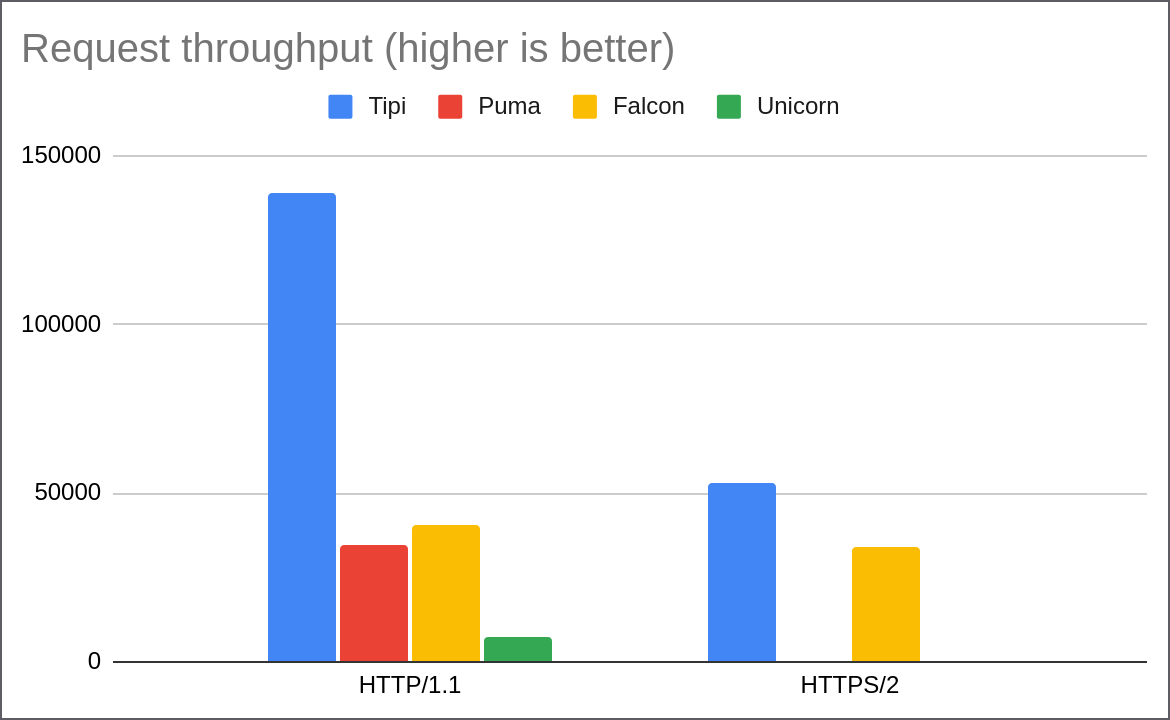
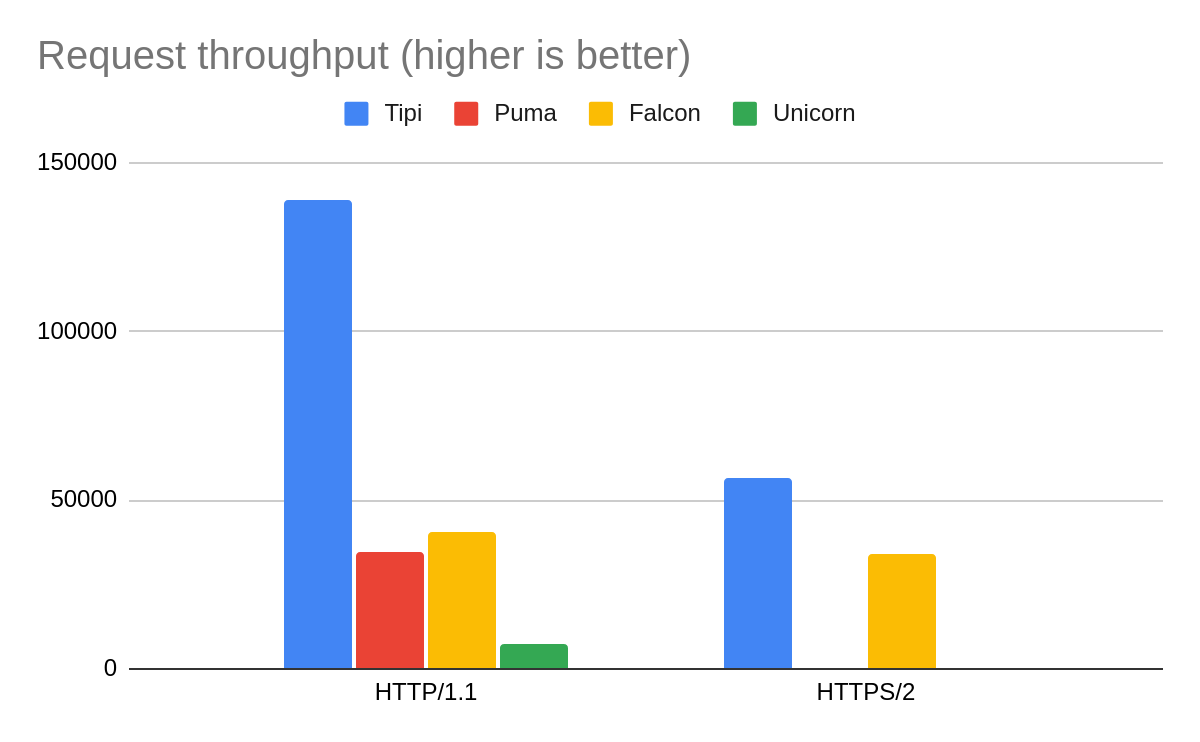
Version 0.44

diff --git a/lib/tipi/version.rb b/lib/tipi/version.rb
@@ -1,5 +1,5 @@
 # frozen_string_literal: true
 
 module Tipi
-  VERSION = '0.43'
+  VERSION = '0.44'
 end

diff --git a/README.md b/README.md
@@ -38,28 +38,168 @@ without having to employ a reverse-proxy such as Nginx.
 | |Tipi|Puma|Falcon|Unicorn|
 |-|---:|---:|-----:|------:|
 |HTTP/1.1|138629|34573|40714|7438|
-|HTTPS/2|52814|?|34226|n/a|
+|HTTPS/2|56762|n/a|34226|n/a|
 
 ### Methodology
 
 - All servers ran the same "Hello world" [Rack
   application](https://github.com/digital-fabric/tipi/blob/master/examples/hello.ru)
 - Each server was run with 4 forked worker processes:
-  - Tipi: `examples/rack_server_forked.rb examples/hello.ru` and
-    `examples/rack_server_https_forked.rb examples/hello.ru`
+  - Tipi: `tipi -w4 -flocalhost:10080:10443 examples/hello.ru`
   - [Puma](https://github.com/puma/puma): `puma -w 4 examples/hello.ru`
-  - [Falcon](https://github.com/socketry/falcon/): `falcon -n 4 -b
-    http://localhost:9292/ -c examples/hello.ru`
+  - [Falcon](https://github.com/socketry/falcon/): `falcon -n 4 -b http://localhost:9292/ -c examples/hello.ru`
   - [Unicorn](https://yhbt.net/unicorn/): `unicorn -c u.conf examples/hello.ru`
     with the configuration file containing the directive `worker_processes 4`
-- All servers were run on Ruby 2.7.2p137
 - The benchmark results were obtained using `wrk -d60 -t4 -c64 <url>`
+- All servers were run on Ruby 2.7.2p137
 - Machine specs: i5-8350U@1.7GHzx8 CPU, 8GB of RAM, running Linux kernel version 5.13.7
-- Puma with HTTPS: In order to serve HTTPS, Puma needs certificates to be
-  created. I'll get around to it eventually for the sake of completeness.
-- Unicorn with HTTPS: as far as I could tell Unicorn does not support SSL
-  termination. Please let me know if this is not the case.
+- Puma does not support HTTP/2.
+- As far as I could tell Unicorn does not support SSL termination.
+
+## Running Tipi
+
+To run Tipi, run the included `tipi` command. Alternatively you can add tipi as
+a dependency to your Gemfile, then run `bundle exec tipi`. By default 
+
+Tipi can be used to drive Rack apps or alternatively any app using the
+[Qeweney](https://github.com/digital-fabric/qeweney) request-response interface.
+
+### Running Rack apps
+
+Use the `tipi` command to start your app:
+
+```bash
+$ bundle exec tipi myapp.ru
+```
+
+### Running Qeweney apps
+
+```bash
+$ bundle exec tipi myapp.rb
+```
+
+The app script file should define an `app` method that returns a proc/lambda
+taking a single `Qeweney::Request` argument. Here's an example:
+
+```ruby
+# frozen_string_literal: true
+
+def app
+  ->(req) { req.respond('Hello, world!', 'Content-Type' => 'text/plain') }
+end
+```
+
+## Setting server listening options
+
+By default, Tipi serves plain HTTP on port 1234, but you can easily change that
+by providing command line options as follows:
+
+### HTTP
+
+To listen for plain HTTP, use the `-l`/`--listen` option and specify a port
+number:
+
+```bash
+$ bundle exec tipi -l9292 myapp.ru
+```
+
+### HTTPS
+
+To listen for HTTPS connections, use the `-s`/`--secure` option and specify a
+host name and a port:
+
+```bash
+$ bundle exec tipi -sexample.com:9292 myapp.ru
+```
+
+### Full service listening
+
+The Tipi full service listens for both HTTP and HTTPS and supports automatic
+certificate provisioning. To use the full service, use the `-f`/`--full` option,
+and specify the domain name, the HTTP port, and the HTTPS port, e.g.:
+
+```bash
+$ bundle exec tipi -fmysite.org:10080:10443 myapp.ru
+
+#If serving multiple domains, you can use * as place holder
+$ bundle exec tipi -f*:10080:10443 myapp.ru
+```
+
+If `localhost` is specified as the domain, Tipi will automatically generate a
+localhost certificate.
+
+## Concurrency settings
+
+By default, the `tipi` command starts a single controller and uses
+[Polyphony](https://github.com/digital-fabric/polyphony) to run each connection
+on its own fiber. This means that you will have a single process running on a
+single thread (on a single CPU core). In order to parallelize your app and
+employ multiple CPU cores, you can tell Tipi to fork multiple worker processes
+to run your app. The number of workers is controlled using the `-w`/`--workers`
+option:
+
+```bash
+# fork 4 worker processes
+$ bundle exec tipi -w4 myapp.ru
+```
+
+You can also set Tipi to spawn multiple threads in each worker when in
+compatibility mode (see below.)
+
+## Compatibility mode
+
+> Note: compatibility mode is still being developed, and currently only supports
+> HTTP/1 connections.
+
+In some apps, using Polyphony is not possible, due to incompatibilities between
+it and other third-party dependencies. In order to be able to run these apps,
+Tipi provides a compatibility mode that does not use Polyphony for concurrency,
+but instead uses a thread-per-connection concurrency model. You can also fork
+multiple workers, each running multiple threads, if so desired. Note that the
+concurrency level is the maximum number workers multiplied by the number of
+threads per worker:
+
+```
+concurrency = worker_count * threads_per_worker
+```
+
+To run Tipi in compatibility mode, use the `-c`/`--compatibility` option, e.g.:
+
+```bash
+# 4 workers * 8 threads = 32 max concurrency
+$ bundle exec tipi -c -w4 -t8 myapp.ru
+```
+
+## Worker process supervision
+
+Tipi employs a supervisor-controller-worker process supervision model, which
+minimizes the memory consumption of forked workers, and which facilitates
+graceful reloading after updating the application code.
+
+This supervision model is made of three levels:
+
+- Supervisor - Starts and stops the controller process
+- Controller - loads the application code and forks workers
+- Worker - listens for connections, handles incoming requests
+
+(If the worker count is 1, the Controller and Worker roles are merged into a
+single process.)
+
+This model allows Tipi to fork workers after loading the app code, and use a
+much simpler way to perform graceful restarts:
+
+- The supervisor starts a new controller process (which may fork one or more
+  worker processes).
+- Sleep for a certain amount of time (currently 1 second.)
+- Stop the old controller process.
+- Each worker process is gracefully stopped and allowed to finish all pending
+  requests, then shutdown all open connections.
+  
+## Performing a graceful restart
+
+A graceful restart performed by sending `SIGUSR2` to the supervisor process.
 
 ## Documentation
 
-Documentation for Tipi is coming soon...
+Documentation for Tipi's API is coming soon...
+

diff --git a/CHANGELOG.md b/CHANGELOG.md
@@ -1,3 +1,9 @@
+## 0.44 2021-09-29
+
+- Implement compatibility mode for HTTP/1 (WIP)
+- Add option parsing for CLI tool
+- Implement supervisor-controller-worker model in CLI tool
+
 ## 0.43 2021-08-20
 
 - Extract HTTP/1 parser into a separate gem:
